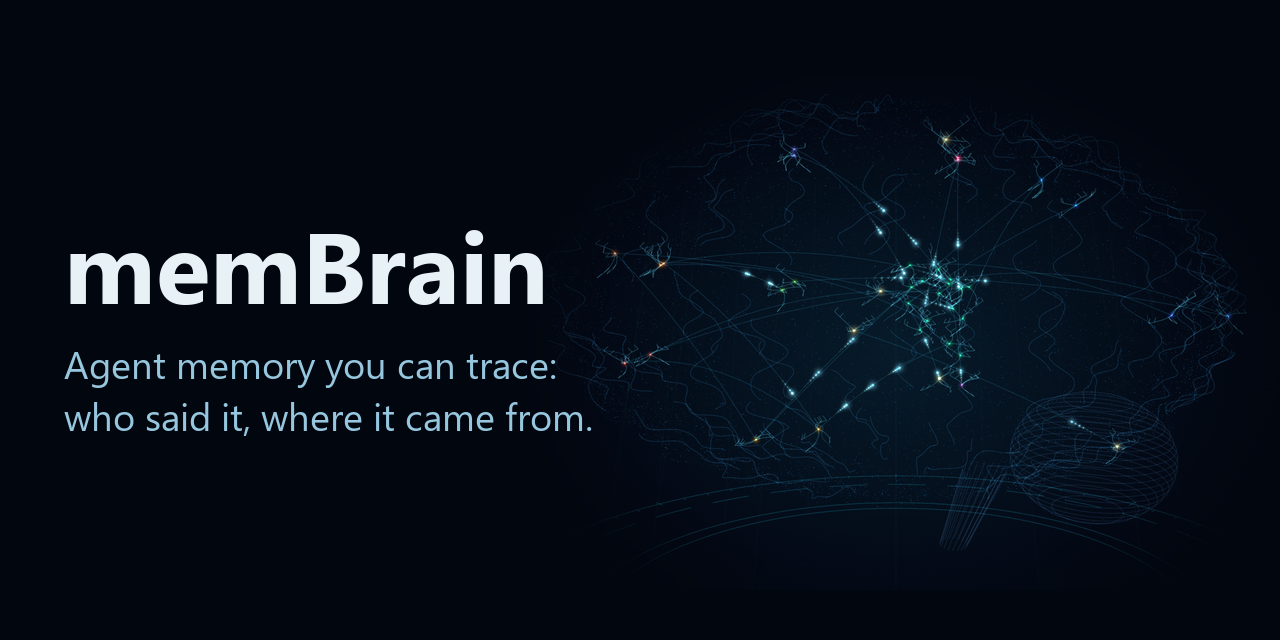
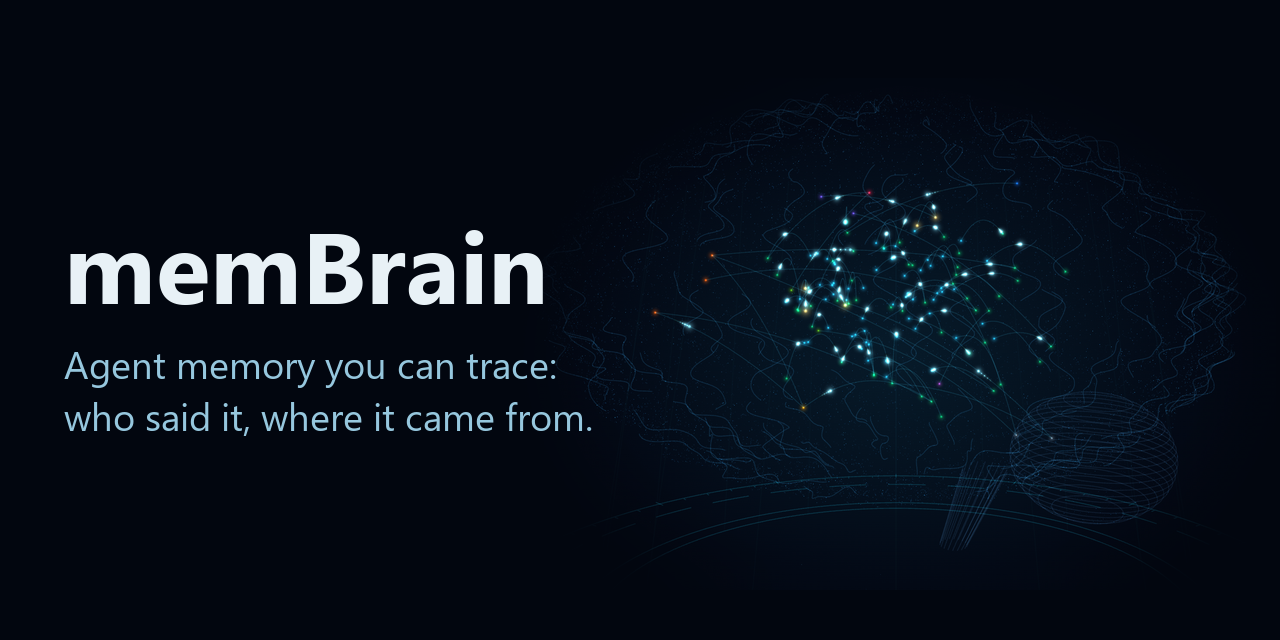
Re-record the launch visuals from the repaired memory page
The hero GIF is now one recording of a memory recorded through the plugin's hooks and MCP server
(tests/page_polish_world.py, plus one conversation added the same way), with no cut between profiles:
Showcase, close, the Memories graph in 3D, a picked note, and the page opened at that note with its sources.
The built-in demo appears only in stills that show its label ("Demo · Simulated signals", "Fictional demo
data"). All stills, the 2D showcase used by the README, and the social preview are captured again from
runtime 9a423c2d; the social preview now uses the recorded memory. The assets README says what each picture
shows, what is decoration and how the GIF was edited.

diff --git a/.github/assets/README.md b/.github/assets/README.md
@@ -1,68 +1,82 @@
 # Images for the README and social posts
 
 Every picture here comes from the real memory page (`/memory`, opened with `membrain plugin ui`). They were captured on
-2026-11-21 from runtime commit `907ee90e`, on Windows 11 in headless Chrome with a new temporary profile. No UI was
-mocked up or painted in. All data is fictional:
+2026-11-21 from commit `ff62707c` (runtime `9a423c2d`, the repaired page), on Windows 11 in headless Chrome, with
+temporary profiles. No UI was mocked up or painted in. All data is fictional:
 
-- **Showcase:** the built-in demo map (`src/membrain/web/memory-map-demo.json`, opened at `/memory?demo=brain&show=1`).
-  It is the same demo data as `brain-showcase.png`.
-- **Brain, Notes and Conversations:** a new profile seeded through the public API. Messages were sent with the SDK's
-  `observe`. Notes were saved with `membrain.notes.save_note`, the function behind the `memory_note` tool, and each
-  cites the user messages it came from. The people (Lena, Sam, Pepper the dog) and the conversations are made up. The
-  seeding took one day, so every note and message is dated 2026-11-21, including where the text mentions an earlier
-  day.
+- **Recorded memory** (`demo.gif`, the social preview and most stills): the small world of
+  `tests/page_polish_world.py`. It is recorded as a user's memory is made: through the Claude Code plugin's own hooks
+  (`session_start`, `user_prompt`, `stop`) and its MCP server's `memory_note` tool, on a scenario clock
+  (2 to 7 November 2026). No model was called. The world has 24 user turns with the agent's replies and 12 notes,
+  each citing the user message it came from. One more conversation of two turns was added the same way: the agent
+  offers a meal plan, the user declines, and a note keeps what the user said. The map counts 128 records and 80 links:
+  52 messages, 63 learned assertions (statements the runtime derives from messages), 11 current notes and 2 feelings
+  attached to notes. The people (Mira), places and projects are made up.
+- **Built-in demo** (`still-showcase.png`, `brain-showcase.png`): the demo map shipped with the page
+  (`src/membrain/web/memory-map-demo.json`, opened at `/memory?demo=brain&show=1`). Each picture shows its label,
+  "Demo · Simulated signals" or "Fictional demo data".
 
 | File | Size | What it shows |
 | --- | --- | --- |
-| `demo.gif` | 1200×750, 17.5 s, 7.6 MB | The hero demo (timeline below). |
-| `social-preview.png` | 1280×640, 0.4 MB | The GitHub social preview: the name, the line “Agent memory you can trace: who said it, where it came from.” and a Showcase frame. |
-| `still-showcase.png` | 1920×1200 | Showcase, full screen, with the demo map. The corner reads “Demo · Simulated signals”. |
-| `still-memories-graph.png` | 1680×1290 | Brain view, graph layer **Memories**, 3D observatory, seeded profile. The September trip note is picked (wire sphere). The list beside it counts each kind, including 19 recent messages and 38 learned assertions (records the runtime derives from messages). |
-| `still-note-sources.png` | 1650×1140 | The page opened at one note (`#note=<id>`, the address `membrain plugin ui --note <id>` opens). The note shows the earlier note it replaced, the message it was saved from and the message the earlier note was based on, each marked **You** and linked to its conversation. |
-| `still-you-and-agent.png` | 1650×659 | One conversation, reached from the food note's source link, which outlines the message it points to. The user's messages are marked **You** with a green edge. The agent's offer of a weekly meal plan is marked **Agent**. The note saved from this conversation (“Eats fish but no meat since summer 2026. Does not want a meal plan.”) cites only the two **You** messages; the Notes view shows this, but this still does not. |
-| `brain-showcase.png` | 1470×741 | An earlier capture of the 2D Showcase with the demo map. It is older than this set and is still used by the README. |
+| `demo.gif` | 1200×750, 17.6 s, 7.6 MB | The hero demo, one recording of the recorded memory (timeline below). |
+| `social-preview.png` | 1280×640, 0.4 MB | The GitHub social preview: the name, the line “Agent memory you can trace: who said it, where it came from.” and a Showcase frame of the recorded memory. |
+| `still-showcase-recorded.png` | 1920×1200 | Showcase, full screen, recorded memory. The corner reads “Simulated signals”. |
+| `still-showcase.png` | 1920×1200 | Showcase, full screen, built-in demo. The corner reads “Demo · Simulated signals”. |
+| `brain-showcase.png` | 1470×741 | The 2D Showcase (the page's view without WebGL), built-in demo, captioned “Fictional demo data”. The README shows it. |
+| `still-memories-graph.png` | 1680×1290 | Brain view, graph layer **Memories**, 3D observatory, recorded memory. The note “Book Rifugio Biella … for the night of 3 July” is picked (wire sphere). The list beside it counts each kind. |
+| `still-note-sources.png` | 1650×1140 | The page opened at that note (`#note=<id>`, the address `membrain plugin ui --note <id>` opens). It shows the earlier note it replaced (5 July), the message it was saved from and the message the earlier note was based on, each marked **You** and linked to its conversation. |
+| `still-you-and-agent.png` | 1650×851 | One conversation, reached from the food note's source link, which outlines the message it points to. The user's messages are marked **You**, the agent's are marked **Agent**. The agent offers a weekly meal plan; the user declines. The note “Eats fish but no meat. Does not want a meal plan.” rests only on the user's message. |
 
 ## What is decoration
 
-Use captions that keep these limits:
+Use captions that keep these limits. While the full-screen Showcase runs, nothing on screen says that the brain shape
+is decoration (the footer that says so is hidden there), so a caption has to say it.
 
-- **Showcase** (`demo.gif` opening, `still-showcase.png`, `social-preview.png`): only the bright dots and the lines
-  that join them stand for records and their recorded links, here the fictional demo records. The following are
+- **Showcase** (`demo.gif` opening, `still-showcase-recorded.png`, `still-showcase.png`, `social-preview.png`): only
+  the bright dots and the lines that join them stand for records and their recorded links. The following are
   illustrative geometry:
   - the brain-shaped shell of filaments;
-  - the branches around each dot;
   - the cerebellum and stem wireframes;
   - the projector rings;
-  - the glow.
+  - the glow;
+  - in the built-in demo only, the neuron-like branches around each dot. They stand for nothing, and a recorded
+    memory never gets them.
 
-  The travelling light is simulated (“Simulated signals”) and is not agent activity or recall. The demo map draws
-  branches around its dots. A map of real memory uses the structural layout, which draws none; with the seeded
-  profile its dots gathered in the middle. A person's own Showcase can therefore look sparser than these pictures.
-- **3D observatory** (`demo.gif` middle, `still-memories-graph.png`): the wire shell, the region labels and the positions
+  The travelling light, and the short streaks it leaves in a still, is simulated (“Simulated signals”). It is not
+  agent activity or recall. The built-in demo is richer in notes than a recorded memory, which is mostly messages and
+  the statements taken from them, so a person's own Showcase looks like the recorded one, not the demo.
+- **3D observatory** (`demo.gif` middle, `still-memories-graph.png`): the wire shell, the area names and the positions
   are a layout aid. Being close together means nothing. Dot size is layout weight, not strength or importance. Only
   the drawn lines are recorded links, as the page itself explains under “How to read the 3D view”.
 
 ## How `demo.gif` was made
 
-1. **0–5 s:** Showcase with the demo map. It is zoomed in a little with the page's own scroll zoom and rotated by
-   dragging.
-2. **Crossfade (0.3 s):** to a separate recording of the seeded profile.
-3. **About 5–12 s:** Brain view with graph layer Memories and the 3D observatory. The view is rotated by dragging, then
-   the September trip note is clicked. The page scrolls down to the opened memory: its status and date, the note it
-   replaces, the message it was derived from and the message the earlier note was based on.
-4. **About 12–17 s:** the page opens at that note (`#note=<id>`) with its sources expanded, and scrolls a little.
-5. **Last quarter second:** fade into the first frame so the loop has no jump.
+One recording, signed in to the recorded memory, with no cut:
 
-The cut joins two real recordings; no frame mixes them, apart from the crossfades. Parts play 1.15–1.5 times faster
-than they were recorded. The capture itself has no cursor, so the pointer and click ring were drawn afterwards at the
-recorded pointer positions. Colours are reduced to GIF palettes: 128 colours for the Showcase frames and 255 for the
-page frames.
+1. **0–4.8 s:** the Showcase (`?show=1`), zoomed in a little with the page's own scroll zoom and rotated by dragging.
+   The pointer then clicks the close button.
+2. **4.8–5.6 s:** the Brain view appears and the page scrolls down to the graph. This part plays at three times speed,
+   so the status cards above the graph pass quickly. One of them says the semantic model is not enabled, because it
+   was switched off for this profile.
+3. **5.6–9.5 s:** graph layer Memories in the 3D observatory: zoom, rotate, hover and click the hut note. Its label
+   shows on hover.
+4. **9.5–13.2 s:** the page scrolls to the opened memory: its date, the note it replaces, the message it was derived
+   from and the message the earlier note was based on.
+5. **13.2–17.6 s:** the page opens at that note (`#note=<id>`) with its sources expanded, and scrolls a little.
+6. **Last quarter second:** fade into the first frame so the loop has no jump.
+
+Parts play 1.15 to 3 times faster than recorded; the note page plays at recorded speed. The capture itself has no
+cursor, so the pointer and click ring were drawn afterwards at the recorded pointer positions. The pointer was led
+around the cluster of learned assertions in the 3D view. Their hover labels show the stored text, which can read
+“assistant assistant (direct_statement): …”, a known defect of the page. Colours are reduced to GIF palettes:
+128 colours for the Showcase frames, and 255 each for the Brain frames and the note page.
 
 ## How the other images were made
 
 - **Stills:** unedited screenshots at device scale 1.5. `still-you-and-agent.png` is cropped to the open conversation.
-- **`social-preview.png`:** a crop of a Showcase screenshot (demo map), edge-feathered onto a flat background whose
-  colour is sampled from the same frame. The text is set in Segoe UI. It is a composed image, not a screen of the
-  product.
+  `brain-showcase.png` is at device scale 1, and WebGL was turned off in the browser to reach the 2D Showcase.
+- **`social-preview.png`:** a crop of a Showcase screenshot (recorded memory), edge-feathered onto a flat background
+  whose colour is sampled from the same frame. The crop leaves out the page's controls and its “Simulated signals”
+  label. The text is set in Segoe UI. It is a composed image, not a screen of the product.
 - **Using the preview:** the repository owner uploads it under Settings → General → Social preview. It was not
   uploaded as part of this work.
